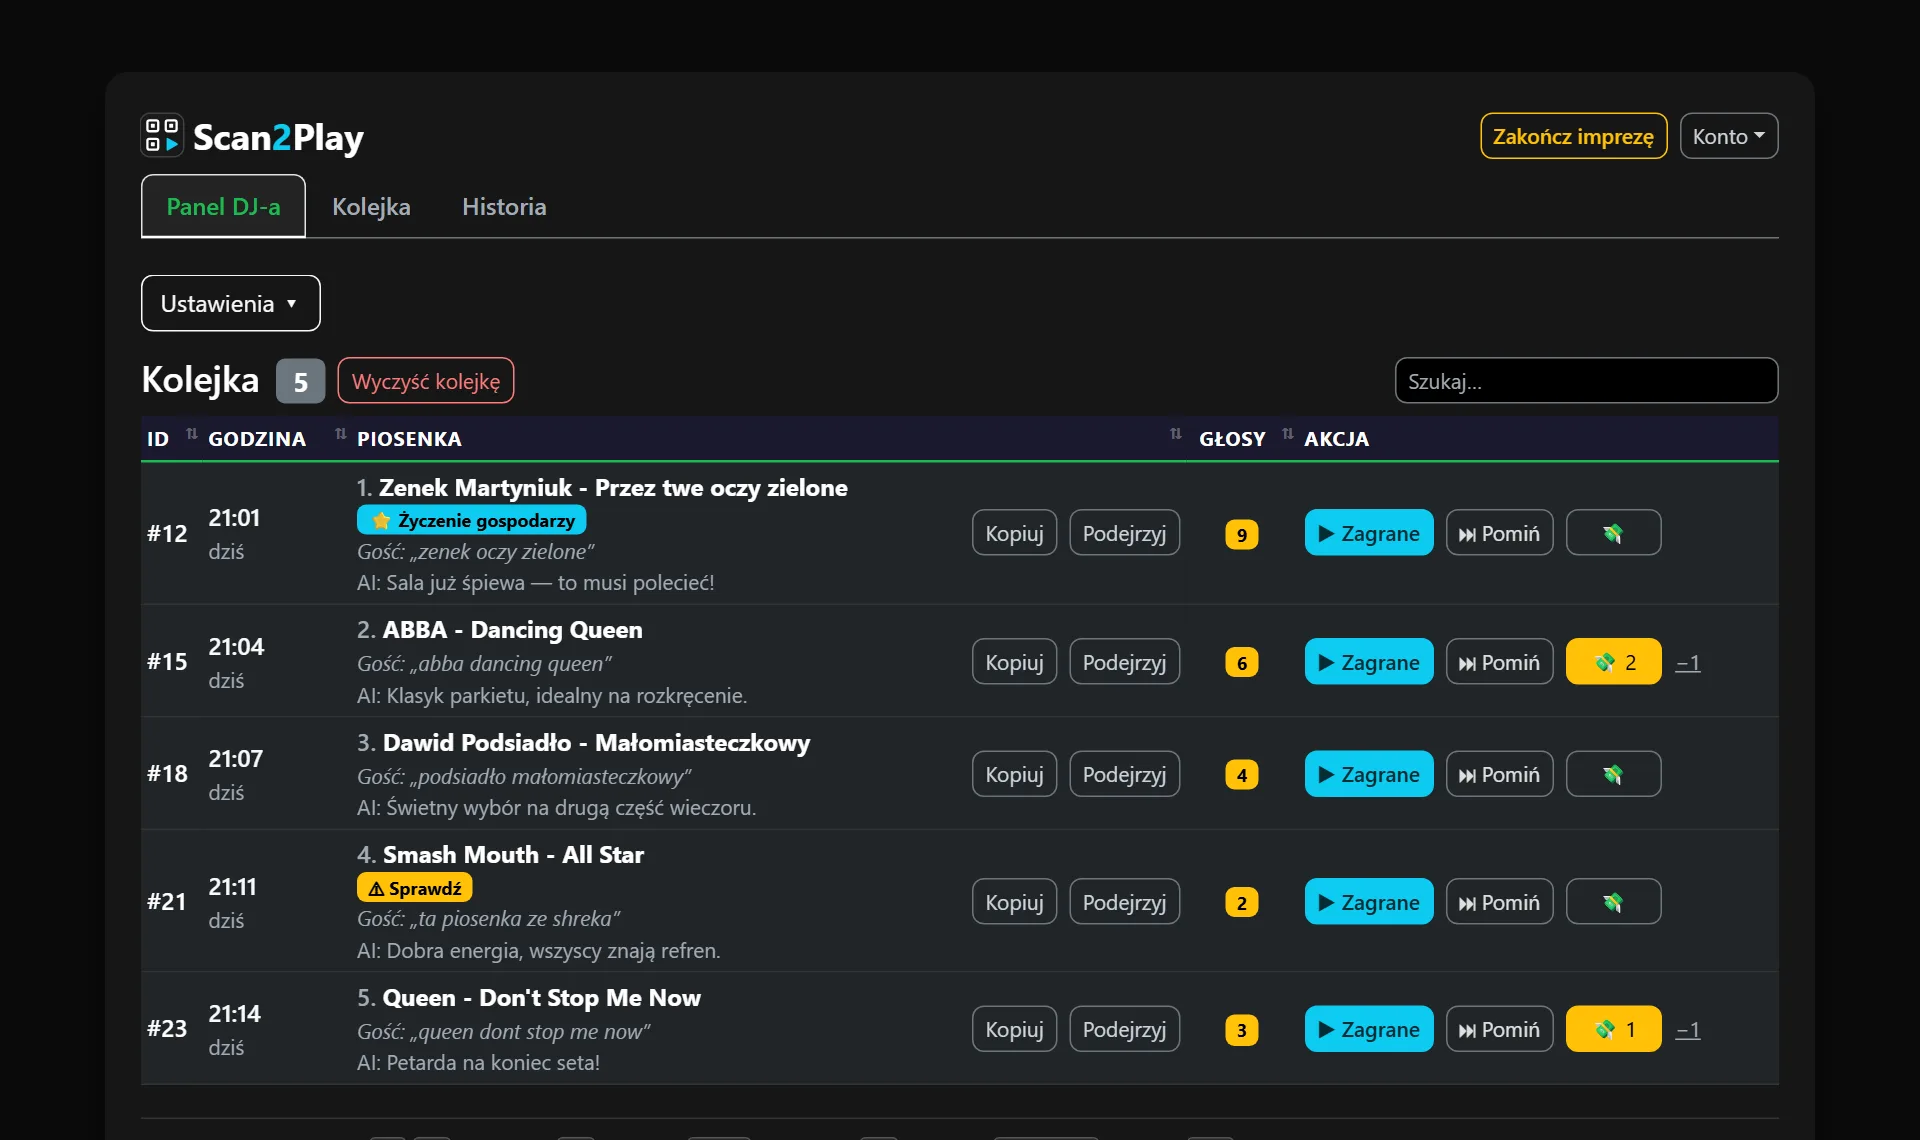
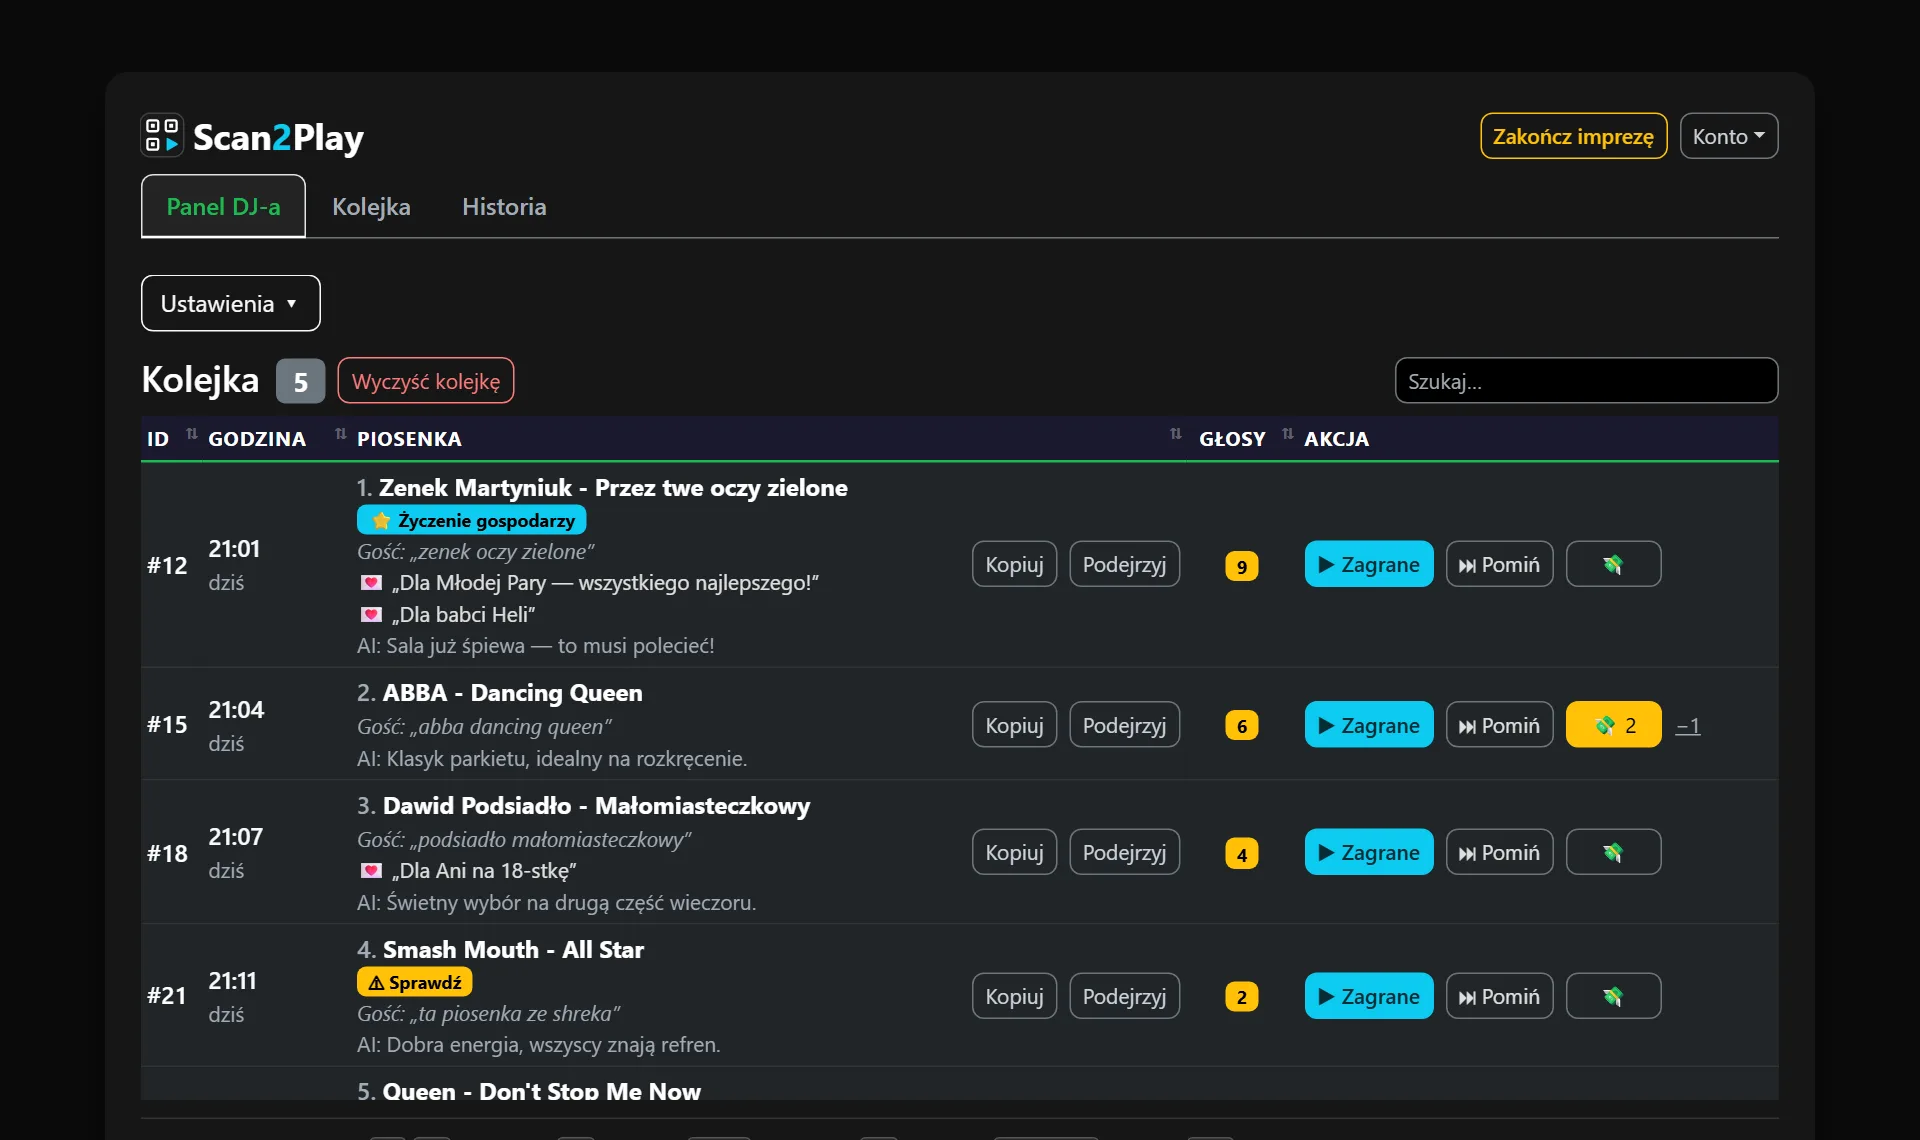
Landing page: the guests' dedications in "What you get" and in the pictures
A card "Dedications" takes the place of "No repeats, no spam" (six cards
for the grid of three); the vibe's card now says the AI turns down what has
played tonight. The pictures show two songs with dedications in the DJ's
panel and the folded "Add a dedication" on the phone (unfolded, it pushed
the guests' requests off the screen). The panel's demo is dated today:
with a fixed date the day under the time read "yesterday" a day later.

diff --git a/src/main/resources/templates/landing.html b/src/main/resources/templates/landing.html
@@ -96,8 +96,9 @@
         </div>
     </section>
 
-    <!--/* What one gets: the features a DJ asks about first. No "PRO" on one card (the owner, 2026-10-18): while the plans are not
-         enforced, "Ile to kosztuje?" says what Pro gives */-->
+    <!--/* What one gets: the features a DJ asks about first; six, for the grid of three (the guests' dedications, V38, took the place
+         of "no repeats, no spam" — the repeats are in the vibe's card). No "PRO" on one card (the owner, 2026-10-18): while the plans
+         are not enforced, "Ile to kosztuje?" says what Pro gives */-->
     <section class="s2p-landing-section" id="landingFeatures">
         <div class="container">
             <h2 th:text="#{landing.features.title}">What you get</h2>
@@ -108,8 +109,8 @@
                     <h3 th:text="#{landing.feature.words.title}">You see what the guest asked for</h3><p th:text="#{landing.feature.words.text}">…</p></div>
                 <div class="s2p-landing-card"><span class="s2p-landing-icon" aria-hidden="true">👍</span>
                     <h3 th:text="#{landing.feature.votes.title}">The room's votes</h3><p th:text="#{landing.feature.votes.text}">…</p></div>
-                <div class="s2p-landing-card"><span class="s2p-landing-icon" aria-hidden="true">🚫</span>
-                    <h3 th:text="#{landing.feature.limits.title}">No repeats, no spam</h3><p th:text="#{landing.feature.limits.text}">…</p></div>
+                <div class="s2p-landing-card"><span class="s2p-landing-icon" aria-hidden="true">💌</span>
+                    <h3 th:text="#{landing.feature.dedications.title}">Dedications</h3><p th:text="#{landing.feature.dedications.text}">…</p></div>
                 <div class="s2p-landing-card"><span class="s2p-landing-icon" aria-hidden="true">⭐</span>
                     <h3 th:text="#{landing.feature.hosts.title}">The hosts' list</h3>
                     <p th:text="#{landing.feature.hosts.text}">…</p></div>

diff --git a/src/test/java/com/scan2play/template/DashboardPageRenderTest.java b/src/test/java/com/scan2play/template/DashboardPageRenderTest.java
@@ -777,8 +777,22 @@ class DashboardPageRenderTest {
                             pl ? "Dobra energia, wszyscy znają refren." : "Good energy, everyone knows the chorus."),
                     demo(25, 23, "Queen - Don't Stop Me Now", "queen dont stop me now", 3, 1, 14,
                             pl ? "Petarda na koniec seta!" : "A banger to end the set!"));
-            String html = renderDashboard(party, queue, locale);
-            assertThat(html).contains("DJ Kuba", "s2p-host-wanted", "s2p-check-song").doesNotContain("??");
+            // the guests' dedications (V38) under two songs
+            queue.get(0).setDedications(2);
+            queue.get(2).setDedications(1);
+            dedications = Map.of(
+                    21L, List.of(dedication(21, pl ? "Dla Młodej Pary — wszystkiego najlepszego!" : "For the newlyweds — all the best!"),
+                            dedication(21, pl ? "Dla babci Heli" : "For Grandma Helen")),
+                    23L, List.of(dedication(23, pl ? "Dla Ani na 18-stkę" : "For Anna on her 18th")));
+            String html;
+            try {
+                html = renderDashboard(party, queue, locale);
+            } finally {
+                dedications = Map.of();
+            }
+            assertThat(html).contains("DJ Kuba", "s2p-host-wanted", "s2p-check-song",
+                    pl ? "Dla babci Heli" : "For Grandma Helen", pl ? "Dla Ani na 18-stkę" : "For Anna on her 18th")
+                    .doesNotContain("??", pl ? ">wczoraj<" : ">yesterday<");
             write("landing-demo-dashboard-" + locale.getLanguage() + ".html", html);
         }
     }
@@ -791,7 +805,9 @@ class DashboardPageRenderTest {
         request.setVotes(votes);
         request.setTips(tips);
         request.setDjComment(comment);
-        request.setRequestedAt(java.time.LocalDateTime.of(2026, 10, 17, 21, minute).atZone(com.scan2play.util.Times.DISPLAY_ZONE).toInstant());
+        // today, whenever the pictures are made: the day under the time says "dziś" ("wczoraj" with a fixed date a day later)
+        request.setRequestedAt(java.time.LocalDate.now(com.scan2play.util.Times.DISPLAY_ZONE).atTime(21, minute)
+                .atZone(com.scan2play.util.Times.DISPLAY_ZONE).toInstant());
         return request;
     }
 

diff --git a/src/test/java/com/scan2play/template/GuestPageRenderTest.java b/src/test/java/com/scan2play/template/GuestPageRenderTest.java
@@ -643,7 +643,8 @@ class GuestPageRenderTest {
                     demo(5, 23, "sanah - Szampan", 1));
             String html = render(locale, Map.of("djName", "DJ Kuba", "globalVibe", VibeType.WEDDING_CLASSICS,
                     "guestQueue", new GuestQueue(songs, List.of(), Set.of(5L), "sanah - Szampan", 1, Set.of(2L))));
-            assertThat(html).contains("DJ Kuba", "sanah - Szampan").doesNotContain("??");
+            // the dedication (V38) folded under the field: unfolded, it pushed the guests' requests out of the phone's screen
+            assertThat(html).contains("DJ Kuba", "sanah - Szampan", "id=\"dedicationBox\"").doesNotContain("??");
             writeForTheBrowserTests("landing-demo-guest-" + locale.getLanguage() + ".html", html);
         }
     }
@@ -680,6 +681,9 @@ class GuestPageRenderTest {
                     .isGreaterThan(html.indexOf("id=\"landingGuestShot\""));
             assertThat(html.split("class=\"s2p-landing-step\"", -1)).as("three steps").hasSize(4);
             assertThat(section(html, "landingFeatures").split("class=\"s2p-landing-card\"", -1)).as("six features").hasSize(7);
+            // the guests' dedications (V38) in place of "no repeats, no spam" — the repeats are in the vibe's card now
+            assertThat(section(html, "landingFeatures")).contains(locale == PL ? ">Dedykacje<" : ">Dedications<")
+                    .doesNotContain(locale == PL ? "Bez powtórek" : "No repeats");
             assertThat(section(html, "landingWho").split("class=\"s2p-landing-card\"", -1)).as("four kinds of party").hasSize(5);
             assertThat(section(html, "landingFaq").split("<details", -1)).as("six questions").hasSize(7);
             assertThat(html.split("href=\"/start\"", -1)).as("the start at the top and at the end").hasSize(3);

diff --git a/PROJECT_CONTEXT.md b/PROJECT_CONTEXT.md
@@ -312,7 +312,9 @@ Landing page `/` (2026-10-17, an idea from Rekwest — its features, never its l
 działa Scan2Play", beside them the DJ's panel in a laptop and the guest's page in a phone — real pictures of the app, of a made-up
 party, in the page's language (`static/images/landing/{dashboard,guest}-{pl,en}.webp`, written by `src/test/browser/screenshots.py`
 from the pages `GuestPageRenderTest` / `DashboardPageRenderTest` render, `theLandingPagesPicture_…`; run it again after a change of
-the look) —, then three steps, what one gets (no "PRO" on a card: "Ile to kosztuje?" says what Pro gives), for whom (wedding DJs, clubs, pubs, karaoke — pages of
+the look; the panel shows the guests' dedications, the phone the folded "💌 Dodaj dedykację") —, then three steps, what one gets
+(six cards: the vibe — with no repeats —, the guest's words, the votes, the dedications, the hosts' list, the phone and the staff; no
+"PRO" on a card: "Ile to kosztuje?" says what Pro gives), for whom (wedding DJs, clubs, pubs, karaoke — pages of
 their own later), six questions (`details`, no script) and the start again; no prices while the plans are not enforced.
 "Zbieraj prośby gości" → `/start` → Google's login → `/dj/dashboard` (`DjSessionHelper.getPartySettings`
 creates the DJ's party on the first visit; the old tile links `/start/{kind}` lead to the login too). The dashboard: the guest queue

diff --git a/SESSION_HANDOFF.md b/SESSION_HANDOFF.md
@@ -14,7 +14,9 @@ The review of 2026-10-14: `docs/history/review-2026-10-14.md` (K1, W1–W15, the
   once the DJ's panel in a laptop and the guest's page in a phone (WebP, PL / EN, of a made-up party "DJ Kuba",
   `src/test/browser/screenshots.py`), then three steps, six features, four kinds of party, six questions and the start again; the
   staff's way in and the guide stay. The old tile, the five steps and their CSS are gone. Tests: 728 unit, browser `landing-phone`,
-  `landing-wide`. Next, after #106: the dedications on the page and in the pictures (run the script again).
+  `landing-wide`. 2026-10-18, on `claude/landing-dedications`: the dedications on the page — a card "Dedykacje" in place of "Bez
+  powtórek i spamu" (the repeats now in the vibe's card; six cards for the grid of three) — and in the pictures (two songs with
+  dedications in the panel, the folded "💌 Dodaj dedykację" on the phone; the panel's demo is dated today, else "wczoraj").
 - **2026-10-17 — a dedication with a request (Next 7, an idea from Rekwest), on the branch `claude/request-dedication` from `origin/dev`;
   a PR to `dev`.** The owner's picks: an offensive one is dropped and the song goes on (the guest is told); every dedication kept,
   a vote's too (a table of its own, V38); plan Free; only the DJ sees them. Under the song's field "💌 Dodaj dedykację" (a `details`,
